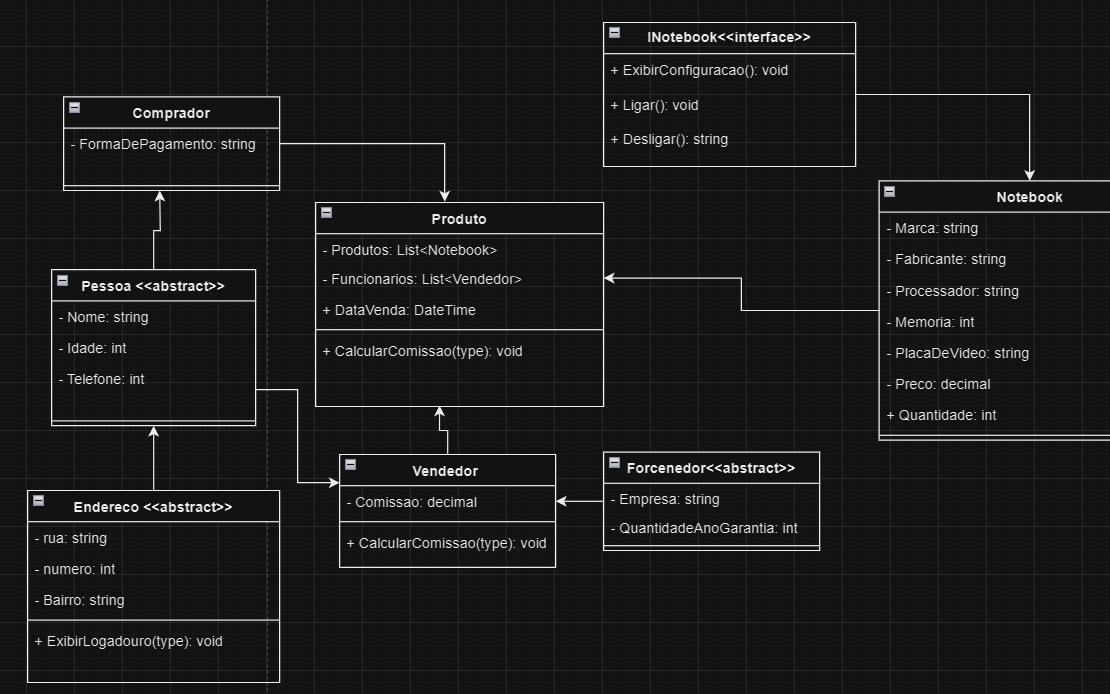
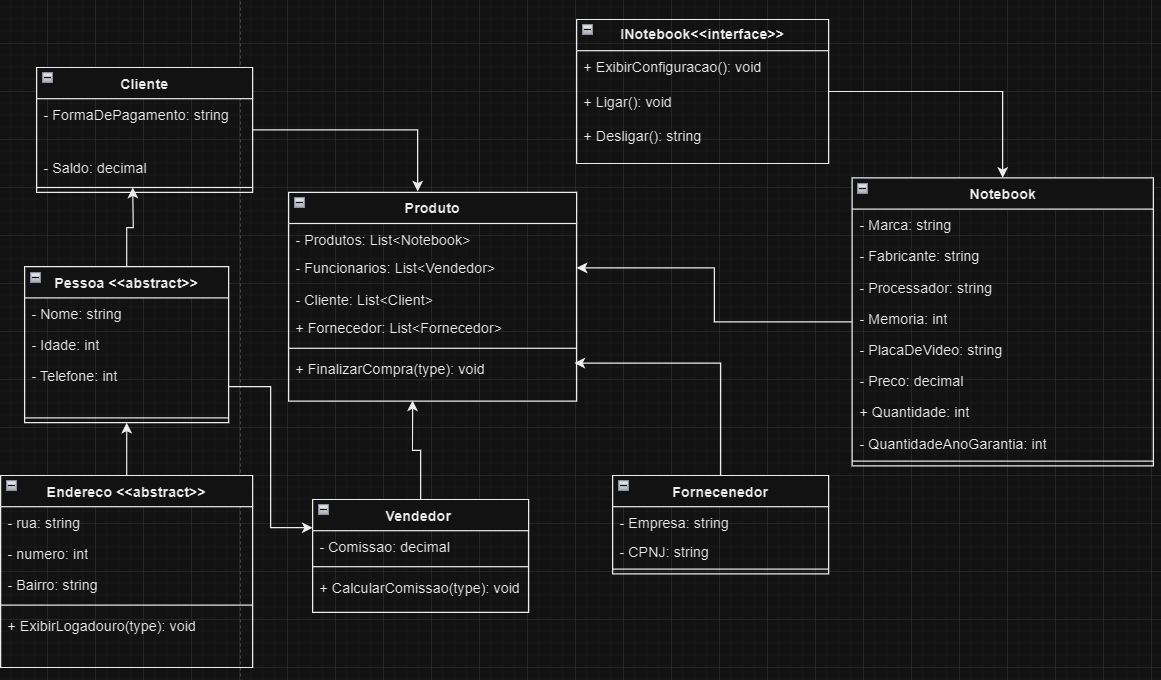
readme

diff --git a/README.md b/README.md
@@ -1,30 +1,30 @@
 <img src="Image/logo.png" alt="logo_samuelflm">
 
 
-# Abstraindo um celular no Csharp/.NET
+# Projeto de Venda de Notebook
 
-<p>
-Sou responsável por modelar um sistema que trabalha com celulares. Para isso, foi solicitado que faço uma abstração de um celular e disponibilize maneiras de diferentes marcas e modelos terem seu próprio comportamento, possibilitando um maior reuso de código e usando a orientação a objetos.
-</p>
-
-Criei um sistema em .NET, do tipo console, mapeando uma classe abstrata e classes específicas para dois tipos de celulares: Nokia e iPhone. De acordo com o diagrama abaixo:
-</p>
+Este projeto é uma abstração de um sistema de venda de notebooks, implementado em C#.
 
 <img src="Image/desafio.png" alt="logo_samuelflm">
 
-## Regras e validações
 
-<p>
-A classe Smartphone deve ser abstrata, não permitindo instanciar e servindo apenas como modelo.<br>
-A classe Nokia e Iphone devem ser classes filhas de Smartphone.<br>
-O método InstalarAplicativo deve ser sobrescrito na classe Nokia e iPhone, pois ambos possuem diferentes maneiras de instalar um aplicativo.
-</p>
+## Serialização com Newtonsoft.Json
 
-> Resultado Nokia
+O projeto utiliza a biblioteca `Newtonsoft.Json` para serializar os dados da venda do notebook. A serialização é um processo de transformar os dados do objeto em um formato que pode ser armazenado ou transmitido e, em seguida, reconstruído posteriormente.
 
-<img src="Image/result_nokia.png" alt="logo_samuelflm">
+Aqui está um exemplo de como a serialização é realizada neste projeto:
 
-> Resultado Iphone
+<img src="Image/json.png" alt="logo_samuelflm">
 
-<img src="Image/result_iphone.png" alt="logo_samuelflm">
+
+## Como usar
+
+Para usar este projeto, você pode clonar o repositório e abrir o projeto no Visual Studio. Certifique-se de ter a biblioteca Newtonsoft.Json instalada.
+
+## Contribuições
+
+Contribuições são bem-vindas! Por favor, leia as diretrizes de contribuição antes de enviar uma solicitação pull.
+
+
+
 
